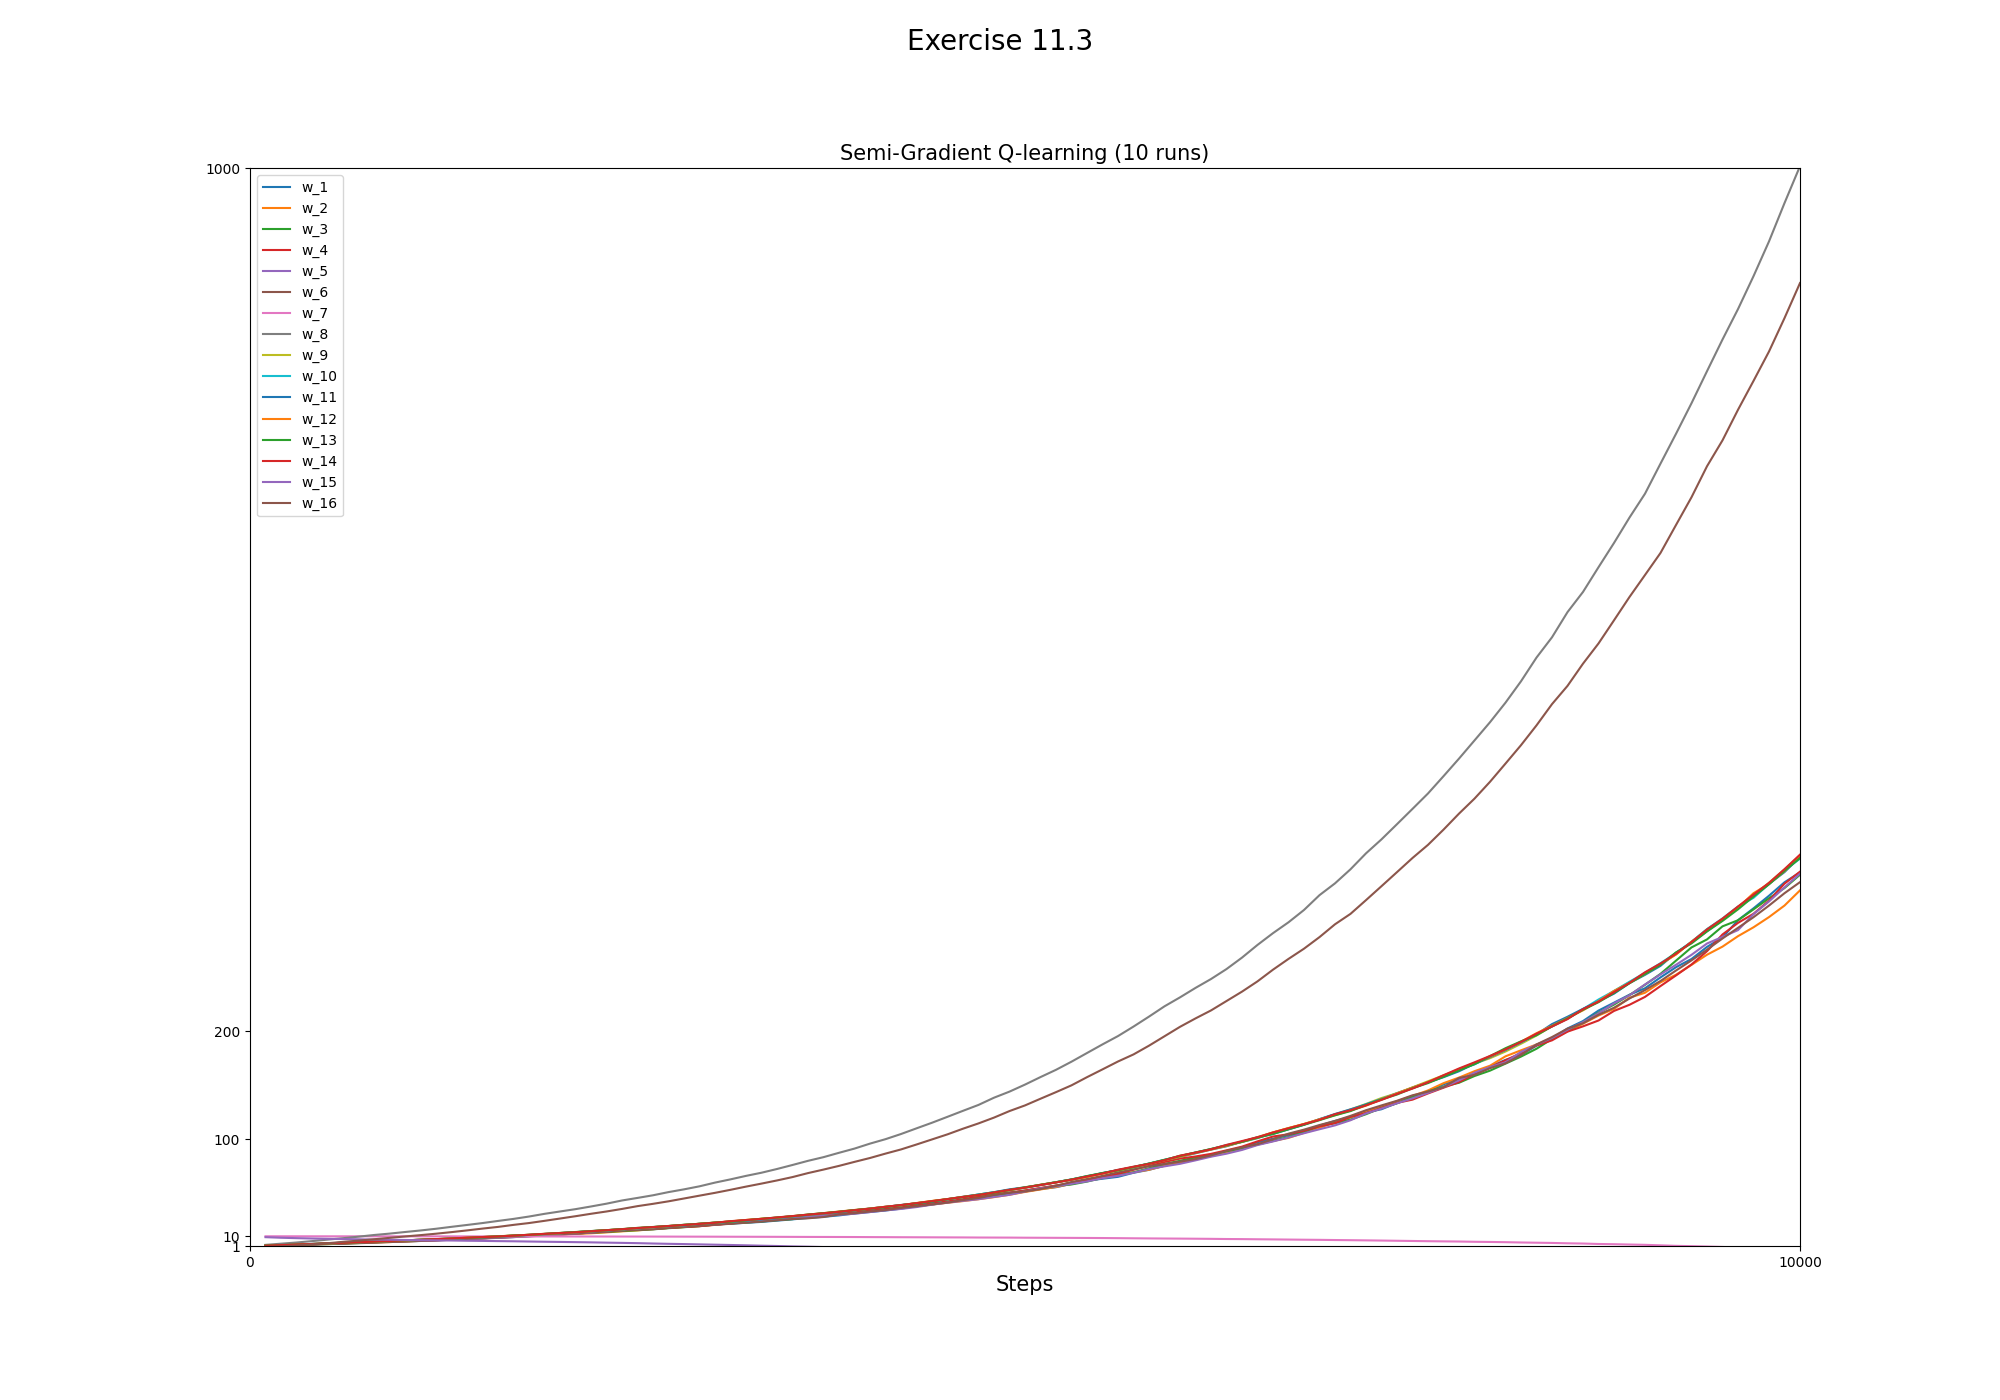
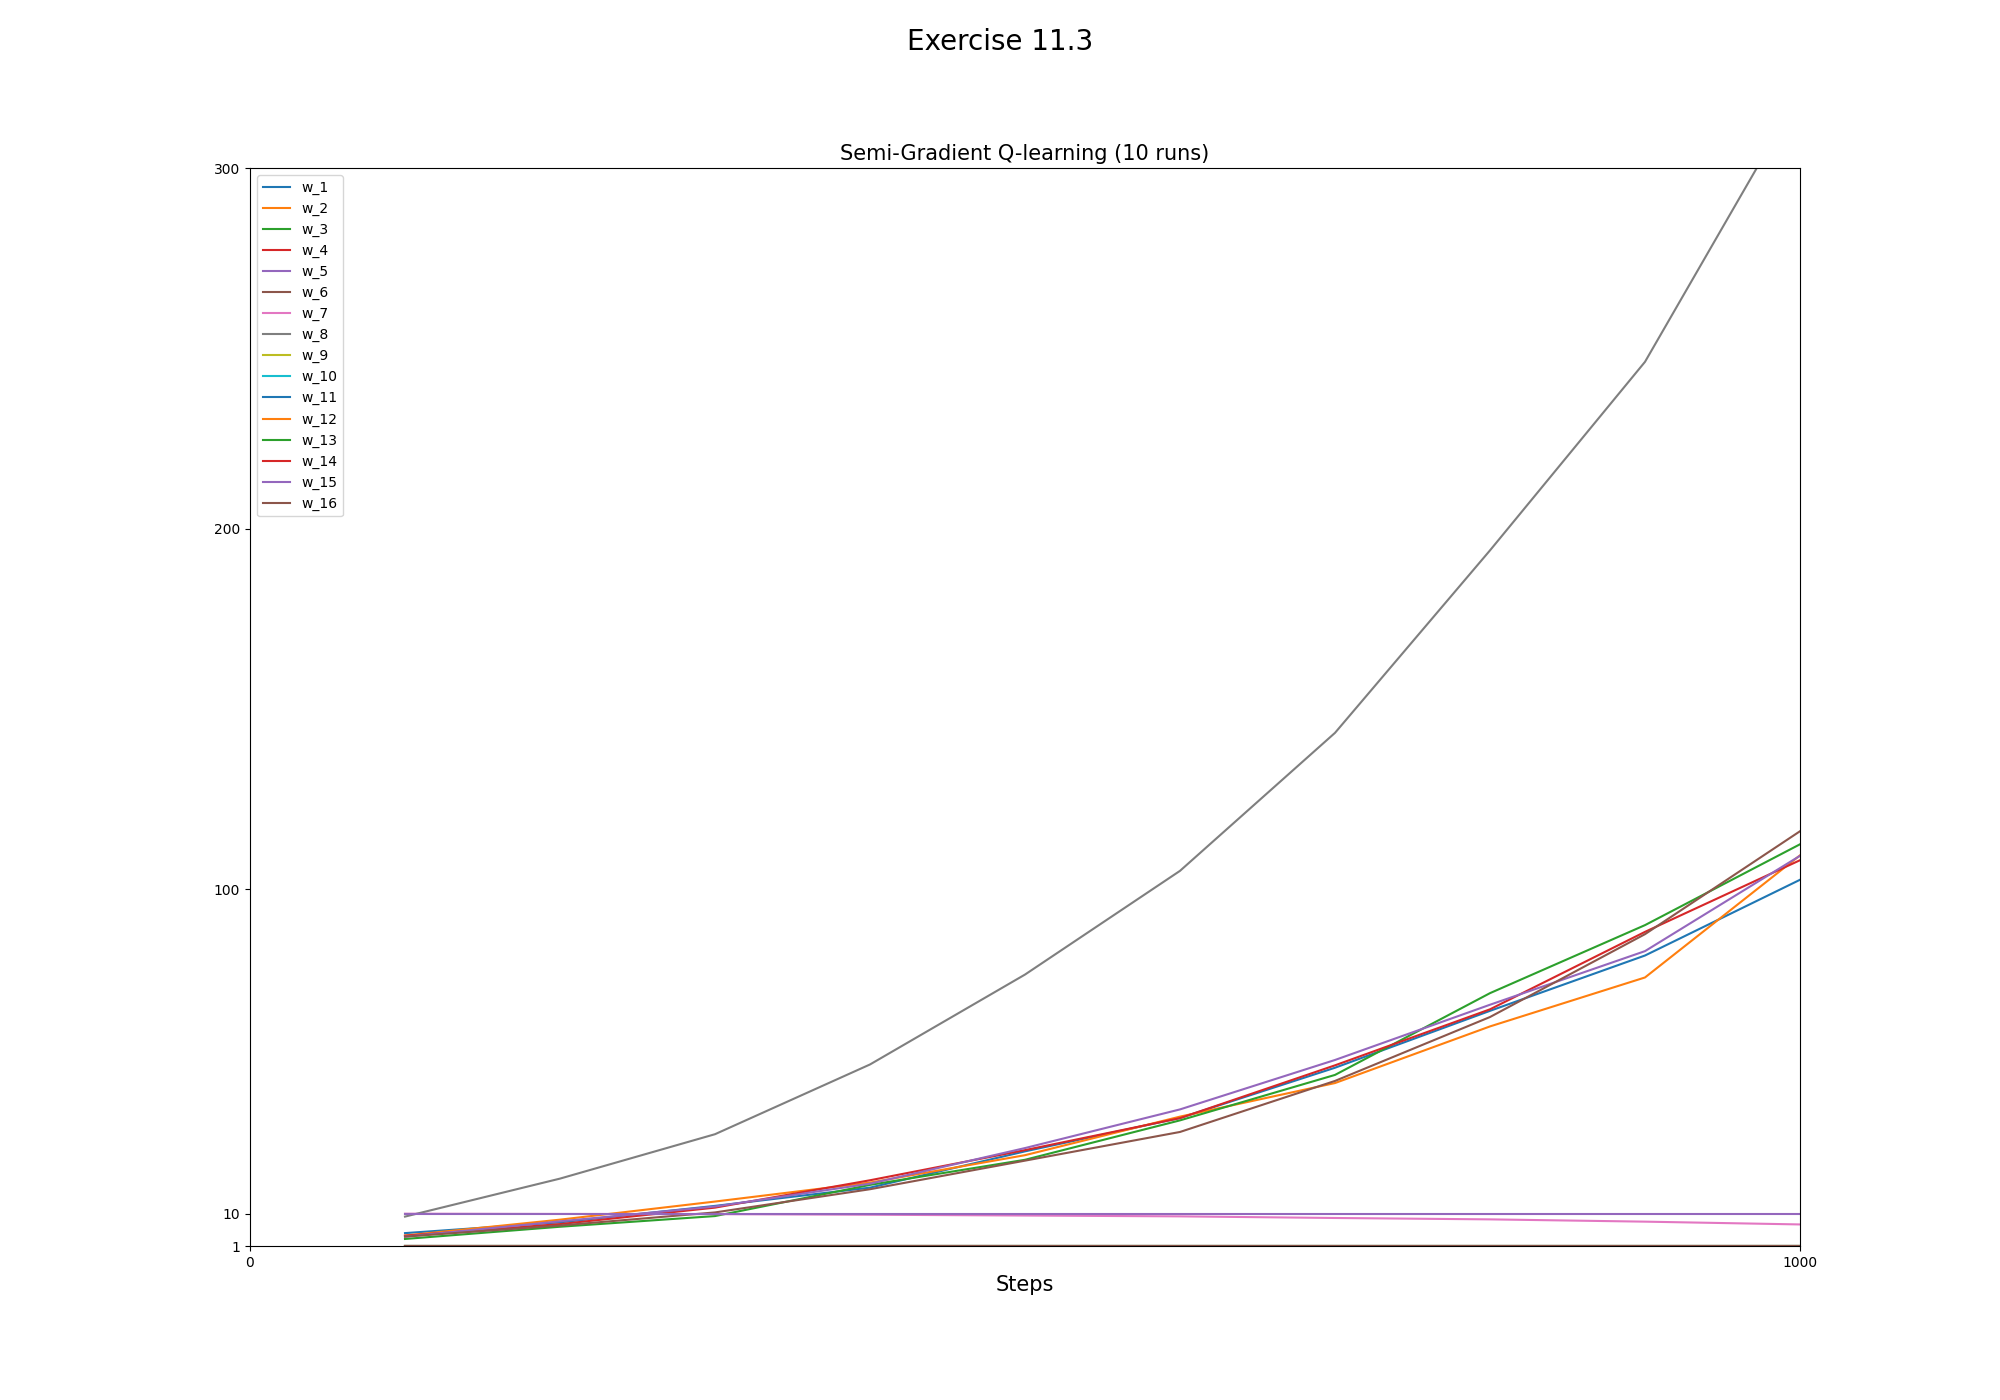
ok actually with importance sampling ratio it diverges much faster

Changed region(s): [[0.124, 0.6143, 0.899, 0.8907]]

diff --git a/chapter11/semi_grad_qlearning.py b/chapter11/semi_grad_qlearning.py
@@ -34,8 +34,7 @@ class SemiGradQLearning:
     return r + self.g * q_max - self.qhat(s, a, self.w)
 
   def qlearn_update(self, s, a, r, s_p):
-    # is_ratio = self.pi[(a, s)] / self.b[(a, s)] if self.pi[(a, s)] > 0 else 0
-    is_ratio = 1
+    is_ratio = self.pi[(a, s)] / self.b[(a, s)] if self.pi[(a, s)] > 0 else 0
     ql_err = self.qlearn_error(s, a, r, s_p)
     self.w = self.w + self.a * ql_err * is_ratio * self.nab_qhat(s, a, self.w)
 

diff --git a/chapter11/figures.py b/chapter11/figures.py
@@ -103,7 +103,7 @@ def ex_11_3():
   alg = SemiGradQLearning(env, pi, b, *baird_params)
   run_alg_on_baird(fig.add_subplot(f'111'), alg, FIG_11_2_N_RUNS_L[0],
                    'Semi-Gradient Q-learning', EX_11_3_N_STEPS, EX_11_3_BATCH,
-                   [0, 10000], [1, 10, 100, 200, 1000], w_init=EX_11_3_W_0)
+                   [0, 1000], [1, 10, 100, 200, 300], w_init=EX_11_3_W_0)
   save_plot('ex11.3', dpi=100)
   plt.show()
 
